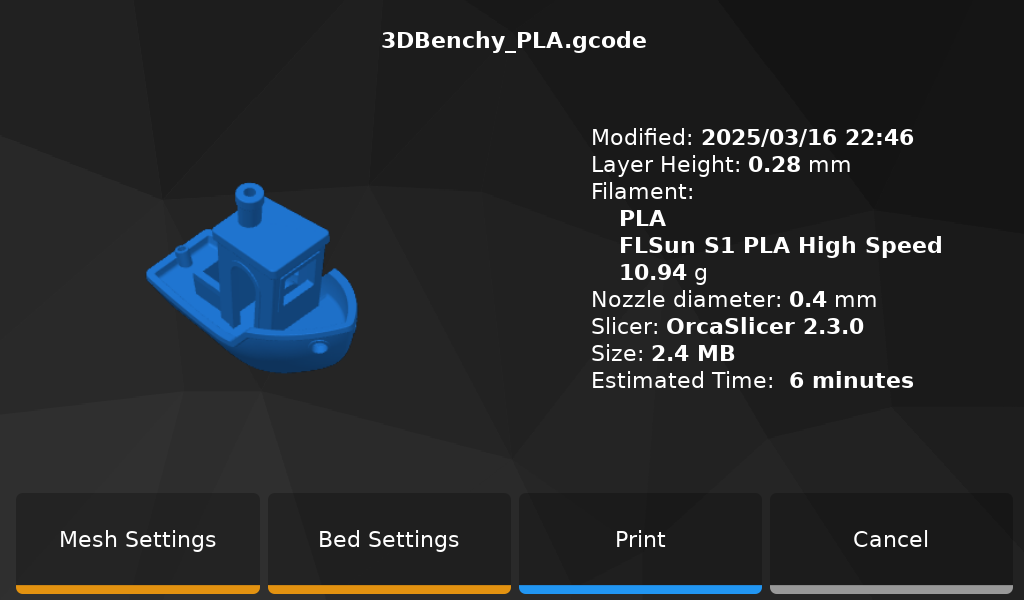
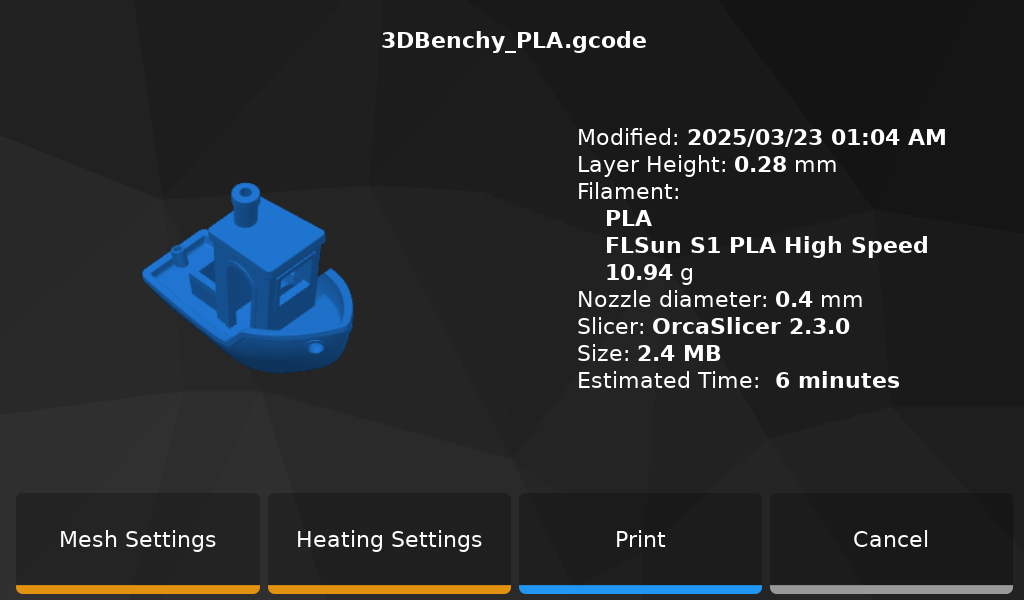
FLSUN OS 2.0

Changed region(s): [[0.5625, 0.21, 0.9375, 0.66], [0.125, 0.3, 0.375, 0.6], [0.2812, 0.87, 0.4688, 0.93]]

diff --git a/docs/update-and-configure-printer.md b/docs/update-and-configure-printer.md
@@ -1,0 +1,114 @@
+---
+icon: material/file-restore
+hide:
+  - toc
+---
+
+The Open Source OS is already ready to use and configured for the FLSUN S1 Stock version but make sure to always use the latest available builds and Klipper configuration files after installation.
+
+<br />
+
+To update to the latest builds, Klipper configuration files and configure your printer, you have 3 possibilities.
+
+### From KlipperScreen
+<hr>
+
+- Go to the **`Configurations`** → **`Updates`** menu:
+
+	<img width="600" src="../assets/images/updates-01.png">
+
+- Click on **`Refresh`** button to check for available updates.
+
+- Click on **`Full Update`** button to update if updates are available.
+
+- Click on **`Update Klipper Configuration Files`** button to update Klipper configuration files.
+
+- Then, go to the **`Configurations`** → **`System`** menu and click on **`Printer Setup Wizard`** button to configure features you need:
+
+	<img width="600" src="../assets/images/updates-02.png">
+
+- After that, **don't forget to calibrate your printer before starting a print!**:
+
+    Go to the **`Configurations`** → **`Calibrations`** menu.
+    
+    - **Motors Calibration** → To calibrate Motors
+    - **Z Offset Calibration** → To calibrate Z Offset
+    - **Bed Mesh** → To perform Delta Calibration and Bed Leveling
+    - **Input Shaper** → To measure Resonances
+
+- Enjoy :smiley:
+
+
+### From Mainsail or Fluidd
+<hr>
+
+- Access to **`Update Manager`**:
+
+    - On **Mainsail** Web Interface go to **`MACHINE`** tab on the left side.
+    - On **Fluidd** Web Interface go to **`Settings`** icon → **`Software Updates`** tab  on the left side.
+
+- Click the refresh button and update all the versions that can be updated:
+
+	| Mainsail | Fluidd |
+	| :---------: | :---------: |
+	| <img width="400" src="../assets/images/update-manager-mainsail.png"> | <img width="400" src="../assets/images/update-manager-fluidd.png"> |
+
+- Next, run **`UPDATE_CONFIGURATION_FILES`** macro to update Klipper configuration files.
+
+- And then, run **`PRINTER_SETUP_WIZARD`** macro to configure features you need.
+
+- After that, **don't forget to calibrate your printer before starting a print!**:
+
+    Go to the **`Configurations`** → **`Calibrations`** menu.
+    
+    - **Motors Calibration** → To calibrate Motors
+    - **Z Offset Calibration** → To calibrate Z Offset
+    - **Bed Mesh** → To perform Delta Calibration and Bed Leveling
+    - **Input Shaper** → To measure Resonances
+
+- Enjoy :smiley:
+
+
+### From SSH with Easy Installer
+<hr>
+
+- Connect to printer over SSH (see <a href="../ssh-connection">:material-console: SSH Connection</a> section).
+
+- In the SSH command prompt window, enter the following command to start **Easy Installer**:
+
+	``` title="SSH Command Prompt"
+	easy-installer
+	```
+
+	<img width="900" src="../assets/images/installer-01.png">
+
+
+- Enter ++"3"++ for **Update** menu → ++"Enter"++ to confirm your choice:
+
+	<img width="900" src="../assets/images/installer-04.png">
+
+
+- Enter ++"1"++ for **Update Klipper configuration files** → ++"Enter"++ to confirm your choice and configuration files will be updated.
+
+- Then, enter ++"2"++ for **Printer Setup Wizard** → ++"Enter"++ to confirm your choice and configure features you need.
+
+- After that, **don't forget to calibrate your printer before starting a print!**:
+
+    Go to the **`Configurations`** → **`Calibrations`** menu.
+    
+    - **Motors Calibration** → To calibrate Motors
+    - **Z Offset Calibration** → To calibrate Z Offset
+    - **Bed Mesh** → To perform Delta Calibration and Bed Leveling
+    - **Input Shaper** → To measure Resonances
+
+- Enjoy :smiley:
+
+
+!!! Note
+    If needed, all Klipper configuration files are available <a href="https://github.com/Guilouz/Klipper-Flsun-S1/tree/master/config/FLSUN%20S1">here</a>.
+
+<br />
+
+**If you like my work, don't hesitate to support me by paying me a 🍺 or a ☕. Thank you 🙂**
+
+<a href="https://ko-fi.com/guilouz" target="_blank"><img width="350" src="../assets/images/ko-fi.png"></a>

diff --git a/docs/about.md b/docs/about.md
@@ -17,26 +17,24 @@ Benchmark comparison between **STOCK OS** (Board flsun) and **Open Source Editio
 
 **What's included:**
 
-  - Moonraker (latest build without modification)<br />
+  - Upgraded kernel a little faster and which gives access to the 1 GB of RAM (700 MB on Stock OS)<br />
+  - Moonraker (latest build)<br />
   - Klipper (latest build with modifications for S1 support, repo is available <a href="https://github.com/Guilouz/Klipper-Flsun-S1">:material-github: here</a>)<br />
   - KlipperScreen (latest build with modifications for S1 support, repo is available <a href="https://github.com/Guilouz/KlipperScreen-Flsun-S1">:material-github: here</a>)<br />
-  - Mainsail (latest build without modification)<br />
+  - Mainsail (latest build)<br />
   - MJPG-Streamer (latest build)<br />
   - Kiauh (latest build)<br />
-  - Moonraker Timelapse<br />
-  - Klipper Print Time Estimator<br />
-  - Preconfigured Web interfaces<br />
-  - Improved configuration files (M600 support, Drying Box from Web UI support, etc...)<br />
+  - Pre-configured Web interfaces for Mainsail and Fluidd<br />
+  - Improved Klipper configuration files (M600 support, Drying Box from Web interfaces support, etc...)<br />
   - Improved Power Loss Recovery<br />
-  - Enhanced Delta Calibration support (More accurate and with denser coverage that allows better detection of variations of the bed or in the mechanics of the printer, which can improve print quality)<br />
-  - Bed Mesh Type before printing support (Full Bed Mesh, Adaptive Bed Mesh or No Mesh)<br />
-  - Adaptive Bed Heating feature<br />
-  - Easy Installer to facilitate programs installation and some actions with the simple **`easy-installer`** command in SSH
-  - Hostname based on MAC address<br />
-  - Automatic resizing of available storage space<br />
+  - Easy Installer feature to facilitate programs installation and some actions<br />
+  - Enhanced Delta Calibration feature (more accurate and better detection of variations of the bed or in the mechanics of the printer, which can improve print quality)<br />
+  - Bed Mesh Type before printing feature (Full Bed Mesh, Adaptive Bed Mesh or No Mesh)<br />
+  - Adaptive Bed Heating feature (heated bed area depending on the model size)<br />
+  - Moonraker Timelapse support<br />
+  - Klipper Print Time Estimator support <br />
   - BigTreeTech MMB Cubic support (Chamber Temperature Sensor and Neopixels)<br />
   - BigTreeTech Smart Filament Sensor V2.0 support<br />
-  - Possibility to install FLSUN OS on eMMC memory<br />
 
 !!! Note
     All AI features have been removed as they do not work as expected.<br />Only Power Loss Recovery and XY Dimension Calibration features have been kept.

diff --git a/docs/changelogs.md b/docs/changelogs.md
@@ -4,6 +4,46 @@ hide:
   - toc
 ---
 
+## FLSUN OS - 2.0
+<hr>
+
+!!! Important
+    **This new OS version must be reinstalled!<br />
+    In the future, it will no longer be necessary to reinstall the OS to update to a new OS version.
+ 
+- Upgraded Kernel to v6.1.99 a little faster and which now gives access to the 1 GB of RAM (700 MB on Stock OS).
+- Enabled ZRAM swap to add extra 512 MB ram for safety.
+- Introduced **FLSUN OS Dependencies** that can be updated via Update Manager to avoid having to reinstall the OS each time:
+    - Allows you to update system files.
+    - Allows you to update **Easy Installer** with new changes.
+    - Automatically checks configuration files and notifies you if a new update is available (when updating **Klipper**).
+- Improved **Easy Installer**:
+    - Added an **`Update`** menu for all update features.
+    - Reworked **`Update Klipper Configuration Files`** feature. It now only updates files that need to be updated.
+    - It is now possible to configure the printer at any time without needing to download the configuration files.
+- Updated **Klipper** configuration files:
+    - Added new **`PRINTER_SETUP_WIZARD`** macro to configure your printer from Web interface.
+    - Added new **`UPDATE_CONFIGURATION_FILES`** macro to update Klipper configuration files from Web interface.
+    - Fixed issue with **`Adapted Bed Heating`** feature not working properly.
+    - Fixed issue with **`Adapted Bed Heating`** feature when first layer has different temperature than other layers.
+    - Necessary End Gcodes are now correctly applied when printing is canceled.
+    - Added wait for current moves to finish before restarting Klipper during calibrations.
+    - Added new macros for updates features.
+    - Improved logic of some macros.
+    - Updated **Moonraker** configurations for **FLSUN OS Dependencies**.
+ - Updated **KlipperScreen**:
+    - Reorganization of menus.
+    - Removed calibration warning on **`Print Panel`** which sometimes created false positives.
+    - Added new panel with QR Code to directly access the Wiki on **`System Panel`**.
+    - Added possibility to update **Klipper** configuration files on **`Updates Panel`**.
+    - Added possibility to configure your printer on **`System Panel`**.
+    - Improved **`Jobs Status Panel`**.
+    - Improved **`LED Panel`**.
+    - Improved **`Fine Tune Panel`**.
+- Updated Moonraker and KlipperScreen environments.
+- Updated Wiki for this new OS.
+
+
 ## FLSUN OS - 1.5.1
 <hr>
 

diff --git a/docs/easy-installer.md b/docs/easy-installer.md
@@ -35,21 +35,29 @@ hide:
 	- **Remove GuppyFLO** → See <a href="../remote-access/#remove-guppyflo">:material-earth: Remote Access</a>
 
 
-	### Extras Menu
+	### Update Menu
 
 	<img width="900" src="../assets/images/installer-04.png">
 
 
-	- **Update Klipper configuration files** → See <a href="../klipper-configurations-files">:material-file-restore: Klipper Configurations Files</a>
+	- **Update Klipper configuration files** → This allows to update your printer with latest Klipper configuration files
+	- **Printer Setup Wizard** → This helps you to configure your printer with the desired features
 	- **Update Motherboard MCU firmware** → This allows to update Klipper firmware of motherboard when **Katapult** bootloader is installed
 	- **Update MMB Cubic MCU firmware** → This allows to update Klipper firmware of BigTreeTech MMB Cubic
+	- **Update Debian packages** → This allows to update installed packages from Debian repository
+
+
+	### Extras Menu
+
+	<img width="900" src="../assets/images/installer-05.png">
+
+
 	- **Backup Klipper configuration files** →This allows to backup Klipper configuration files to a `backup_klipper.zip` compressed file
 	- **Restore Klipper configuration files** → This allows to restore Klipper configuration files from a `backup_klipper.zip` compressed file
 	- **Backup Moonraker database** → This allows to backup Moonraker database to a `backup_moonraker.zip` compressed file
 	- **Restore Moonraker database** → This allows to restore Moonraker database from a `backup_moonraker.zip` compressed file
-	- **Delete cache and logs files** → This allows to delete temporary files and log files
-	- **Update Debian packages** → This allows to update installed packages from Debian repository
 	- **Restore Web-UI default settings** → This allows to restore the pre-configured settings of Mainsail and Fluidd Web interfaces
+	- **Delete cache and logs files** → This allows to delete temporary files and log files
 	- **Restore SSH access for Stock OS** → This allows to restore SSH access when you are running FLSUN's Stock OS
 
 <br />

diff --git a/docs/screenshots.md b/docs/screenshots.md
@@ -41,9 +41,11 @@ hide:
 
 	<img width="600" src="../assets/images/screenshot_08.png">
 
+
 - **Bed Heating Settings Panel**
 
 	<img width="600" src="../assets/images/screenshot_22.png">
+
 
 - **Configurations Panel**
 
@@ -81,14 +83,19 @@ hide:
 	<img width="600" src="../assets/images/screenshot_16.png">
 
 
-- **Macros Panel**
-
-	<img width="600" src="../assets/images/screenshot_17.png">
-
-
 - **LED Panel**
 
 	<img width="600" src="../assets/images/screenshot_21.png">
+
+
+- **Neopixels LED Panel**
+
+	<img width="600" src="../assets/images/screenshot_28.png">
+
+
+- **Brightness Panel**
+
+	<img width="600" src="../assets/images/screenshot_19.png">
 
 
 - **Spoolman Panel**
@@ -96,9 +103,34 @@ hide:
 	<img width="600" src="../assets/images/screenshot_18.png">
 
 
-- **Brightness Panel**
+- **Macros Panel**
 
-	<img width="600" src="../assets/images/screenshot_19.png">
+	<img width="600" src="../assets/images/screenshot_17.png">
+
+
+- **Console Panel**
+
+	<img width="600" src="../assets/images/screenshot_23.png">
+
+
+- **Updates Panel**
+
+	<img width="600" src="../assets/images/screenshot_24.png">
+
+
+- **System Panel**
+
+	<img width="600" src="../assets/images/screenshot_25.png">
+
+
+- **System Info Panel**
+
+	<img width="600" src="../assets/images/screenshot_26.png">
+
+
+- **About Panel**
+
+	<img width="600" src="../assets/images/screenshot_27.png">
 
 
 - **Shutdown Panel**

diff --git a/docs/first-boot.md b/docs/first-boot.md
@@ -11,13 +11,13 @@ hide:
 
 	If not, your image was not correctly written to your microSD card, try another microSD card or retry: <a href="../prepare-microsd-card-for-flsun-os">:material-micro-sd: Prepare microSD Card for FLSUN OS</a>  
 
-- Once you are on the **KlipperScreen** interface, click on **`Configurations`** → **`Network`** and connect to your WiFi network.<br />Your local IP address should be displayed in the top right corner.
+- When it first starts, the OS will perform several actions (resizing storage size, configuring Web interfaces, etc...) and the printer will restart once finished.
+
+- After reboot, once you are on the **KlipperScreen** interface, click on **`Configurations`** → **`Network`** and connect to your WiFi network.<br />Your local IP address should be displayed in the top right corner.
 
 - Wait for **Moonraker** and **Klipper** to connect, if not click **`Retry`** button.<br />The LEDs on the left side of the screen should light up white as soon as the connection is established.
 
-- Then, restart the printer (this is important for the proper functioning of the OS).
-
-- Next, take a look to <a href="../klipper-configurations-files">:material-file-restore: Klipper Configurations Files</a> section.
+- Next, take a look to <a href="../update-and-configure-printer">:material-file-restore: Update and Configure Printer</a> section.
 
 <br />
 

diff --git a/docs/complete-process-summary.md b/docs/complete-process-summary.md
@@ -16,9 +16,9 @@ Here are the steps required to install and use **FLSUN OS**:
 - <a href="../flash-closed-loops-boards">:octicons-cpu-16: Flash Closed Loops Boards</a> (Optional but recommended for S1 users)
 - <a href="../insert-microsd-card-with-flsun-os-in-core-board">:material-gesture-tap-button: Insert microSD Card with FLSUN OS in Core Board</a> if you use microSD Card for **FLSUN OS** (and not on eMMC)
 - <a href="../first-boot">:material-power-settings: First Boot</a>
+- <a href="../update-and-configure-printer">:material-file-restore: Update and Configure Printer</a>
 - <a href="../ssh-connection">:material-console: SSH Connection</a>
 - <a href="../update-time-zone">:material-map-clock: Update Time Zone</a>
-- <a href="../klipper-configurations-files">:material-file-restore: Klipper Configurations Files</a>
 - <a href="../slicers-settings">:material-printer-3d: Slicers Settings</a>
 
 <br />

diff --git a/docs/moonraker-timelapse.md b/docs/moonraker-timelapse.md
@@ -4,7 +4,7 @@ hide:
   - toc
 ---
 Moonraker Timelapse is a 3rd party Moonraker component to create timelapse of 3D prints.<br />
-It can be enabled with **Easy Installer**. See <a href="../klipper-configurations-files">:material-file-restore: Klipper Configurations Files</a> section but if you need to configure it manually follow these steps.
+It can be enabled with <a href="../easy-installer">:material-star: Easy Installer</a> or with **Printer Setup Wizard** from **KlipperScreen** or Web interface (<br />see <a href="../update-and-configure-printer">:material-file-restore: Update and Configure Printer</a> section) but if you need to configure it manually follow these steps.
 
 - Connect to printer over SSH (see <a href="../ssh-connection">:material-console: SSH Connection</a> section).
 

diff --git a/docs/insert-microsd-card-with-flsun-os-in-core-board.md b/docs/insert-microsd-card-with-flsun-os-in-core-board.md
@@ -36,10 +36,10 @@ hide:
  
 - You can now screw the screen box back on, reconnect the cables and reattach it to the printer.
 
-    !!! Note
-        There is no need to reconnect the **USB 1** port cable, it is for the cameras on the hotend which are not used.<br /><br />
+    !!! Warning
+        **To avoid issues with camera detection, do not reconnect the cable from the USB 1 port**, it is for the cameras on the hotend which are not used.<br /><br />
         You can also remove them from the effector to save a little weight:<br />
-        <img width="1100" src="../assets/images/hotend_camera.jpg">
+        <img width="900" src="../assets/images/hotend_camera.jpg">
 
 - Next, follow <a href="../first-boot">:material-power-settings: First Boot</a> section.
 

diff --git a/docs/bigtreetech-mmb-cubic.md b/docs/bigtreetech-mmb-cubic.md
@@ -128,7 +128,7 @@ Here we will see the addition of Neopixels and a chamber temperature sensor.
 ### Configuration
 <hr>
 
-MMB Cubic can be configured automatically with **Easy Installer**.<br />See <a href="../klipper-configurations-files">:material-file-restore: Klipper Configurations Files</a> section but if you need to configure it manually follow these steps.
+MMB Cubic can be configured automatically with <a href="../easy-installer">:material-star: Easy Installer</a> or with **Printer Setup Wizard** from **KlipperScreen** or Web interface (<br />see <a href="../update-and-configure-printer">:material-file-restore: Update and Configure Printer</a> section) but if you need to configure it manually follow these steps.
 
 - Open **`config.cfg`** file:
 

diff --git a/docs/camera-settings-control.md b/docs/camera-settings-control.md
@@ -4,7 +4,7 @@ hide:
   - toc
 ---
 Camera Settings Control allows you to configure settings like Brightness, Contrast, Saturation, etc... with macros.<br />
-It can be enabled with **Easy Installer**. See <a href="../klipper-configurations-files">:material-file-restore: Klipper Configurations Files</a> section but if you need to configure it manually follow these steps.
+It can be configured automatically with <a href="../easy-installer">:material-star: Easy Installer</a> or with **Printer Setup Wizard** from **KlipperScreen** or Web interface (<br />see <a href="../update-and-configure-printer">:material-file-restore: Update and Configure Printer</a> section) but if you need to configure it manually follow these steps.
 
 - Open **`config.cfg`** file:
 

diff --git a/docs/install-flsun-os-on-emmc.md b/docs/install-flsun-os-on-emmc.md
@@ -177,6 +177,11 @@ The eMMC offers faster read and write speed and is less prone to physical corrup
 
 - You can now turn off the printer, screw the screen box back on, reconnect the cables and reattach it to the printer.
 
+    !!! Warning
+        **To avoid issues with camera detection, do not reconnect the cable from the USB 1 port**, it is for the cameras on the hotend which are not used.<br /><br />
+        You can also remove them from the effector to save a little weight:<br />
+        <img width="1100" src="../assets/images/hotend_camera.jpg">
+
 - Now you have FLSUN OS installed on the eMMC and it is still possible to boot from a microSD card if needed.
 
 <br />
